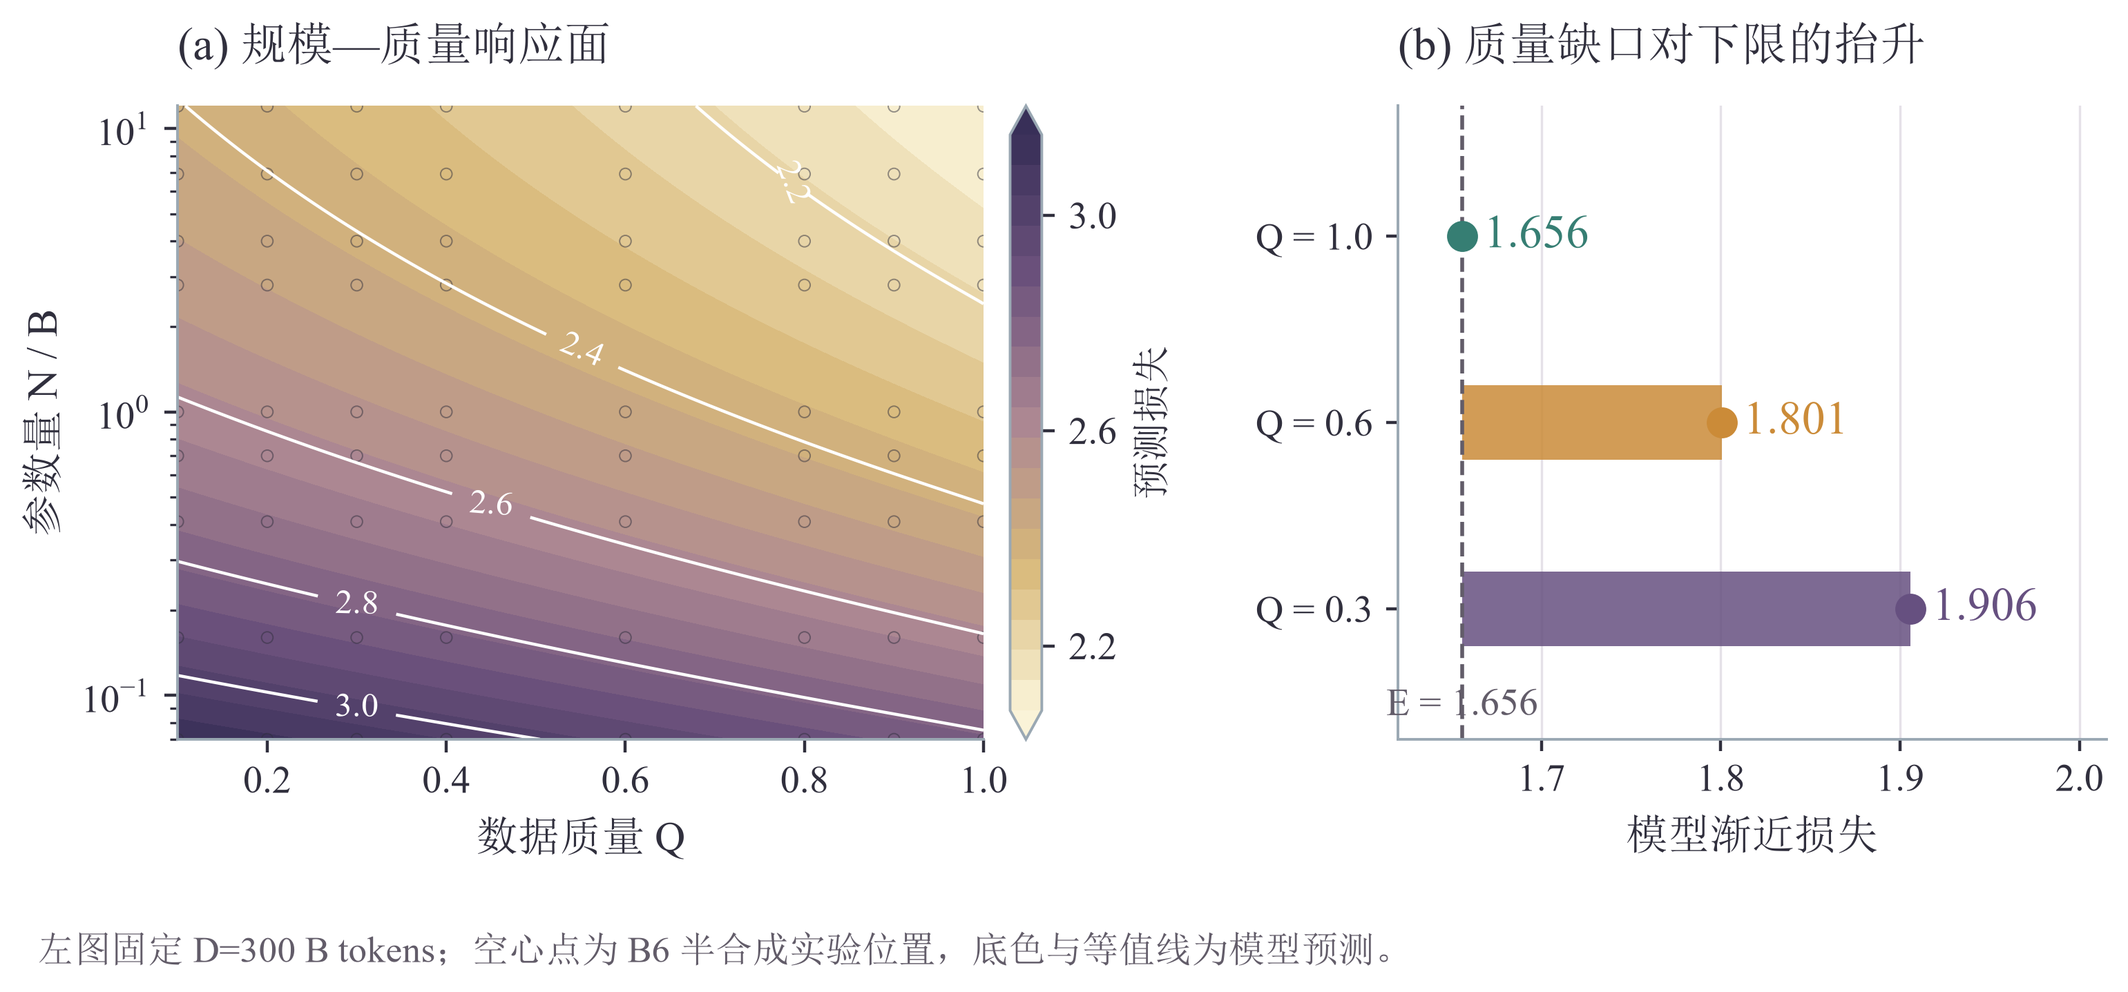
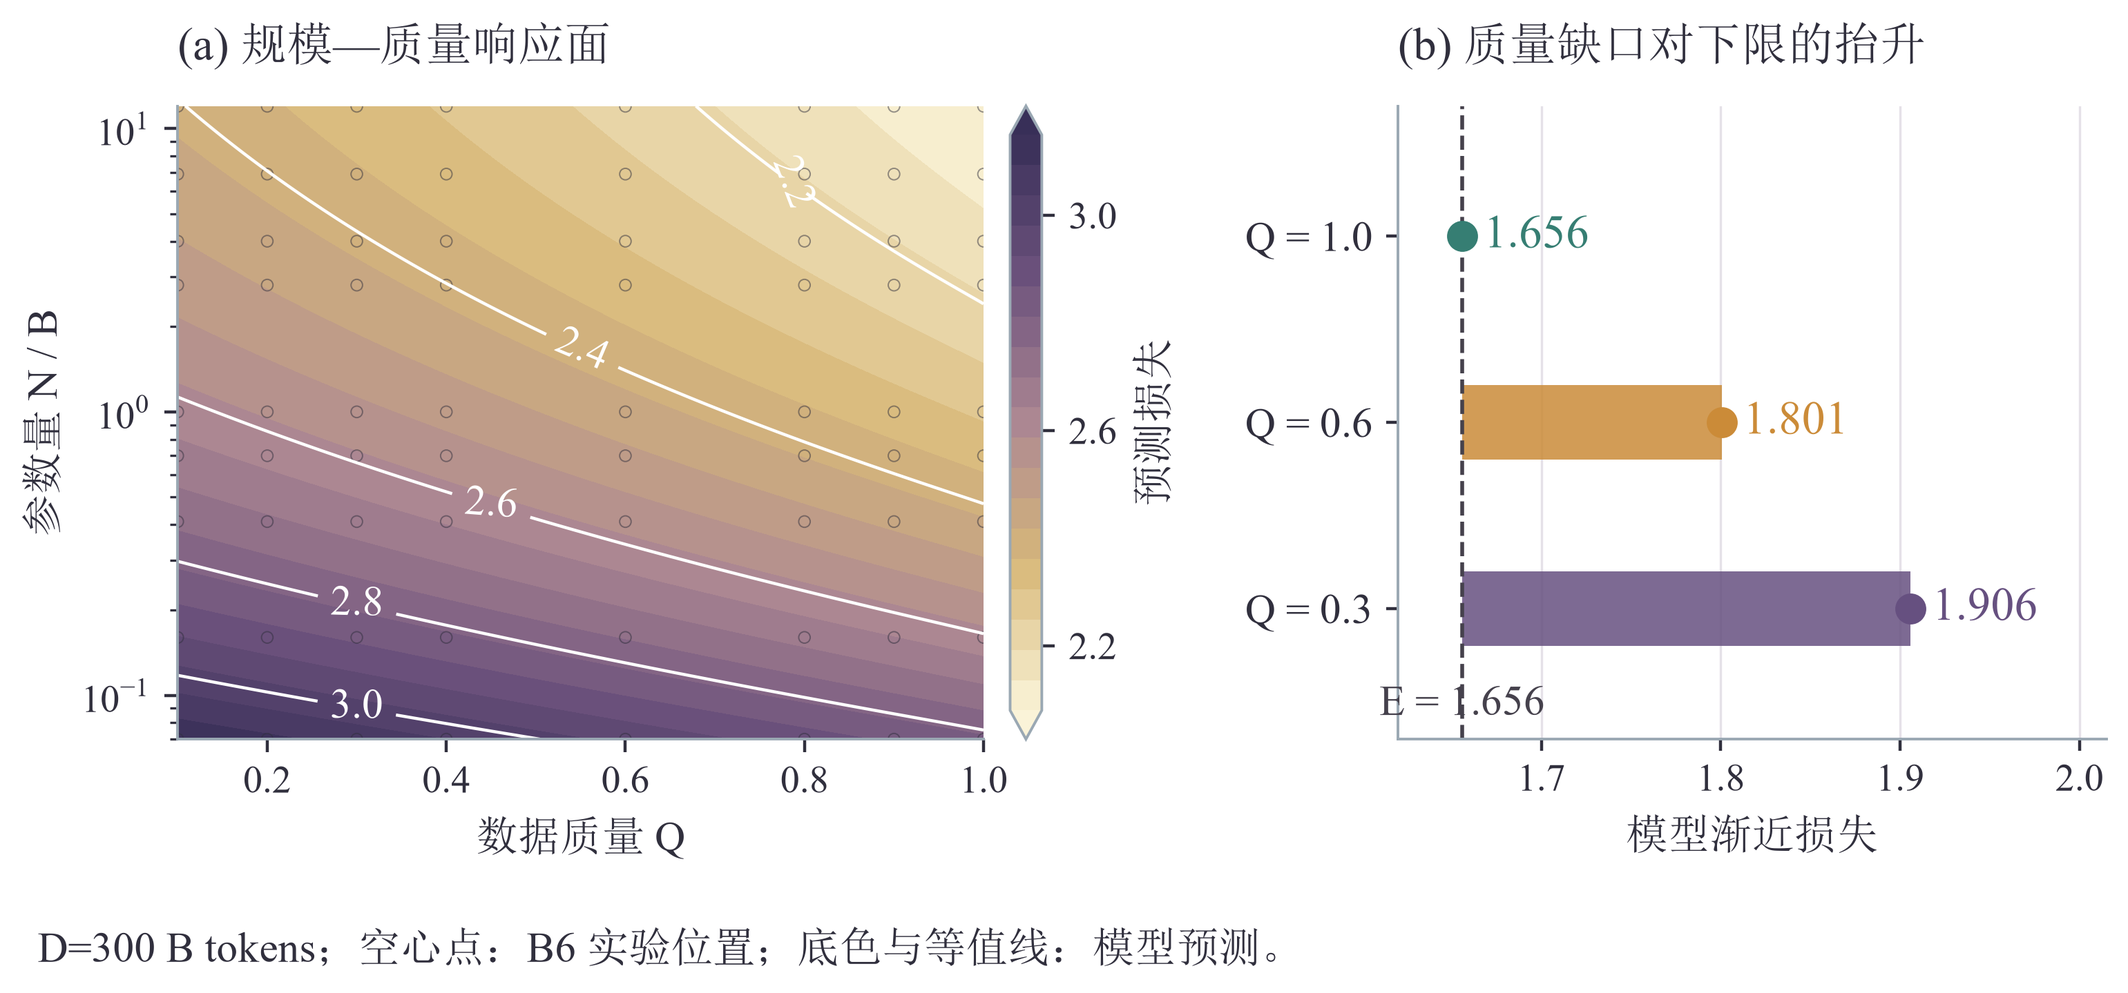
Align problem two conclusions and improve figure readability

diff --git a/求解/问题二/重绘图表.py b/求解/问题二/重绘图表.py
@@ -21,7 +21,7 @@ from scipy.spatial.distance import squareform
 
 HERE = Path(__file__).resolve().parent
 ROOT = HERE.parents[1]
-BLUE, TEAL, RED, GRAY = '#665080', '#367E73', '#CB8B38', '#625C69'
+BLUE, TEAL, RED, GRAY = '#665080', '#367E73', '#CB8B38', '#45414C'
 PALE, INK = '#FAF8F4', '#302F3D'
 CMAP = LinearSegmentedColormap.from_list('effect', ['#FAF3D8', '#D8B979', '#AD8792', '#6D527D', '#382F58'])
 
@@ -67,6 +67,10 @@ def render_all(data_root=None):
     def classic(N,D): return cl.E+cl.A*np.asarray(N)**(-cl.alpha)+cl.B*np.asarray(D)**(-cl.beta)
     def model(N,D,Q): return E+A*np.asarray(N)**(-a)+B*np.asarray(D)**(-b)+C*(1-np.asarray(Q))**g
     def save(fig, name):
+        from matplotlib.text import Text
+        for text in fig.findobj(Text):
+            if text.get_text().strip() and text.get_fontsize() < 11:
+                text.set_fontsize(11)
         fig.savefig(figdir/f'{name}.png', bbox_inches='tight', pad_inches=.08)
         plt.close(fig)
     def axes_style(ax, axis='both'):
@@ -76,7 +80,37 @@ def render_all(data_root=None):
                 bbox=dict(facecolor='white',edgecolor='none',alpha=.88,pad=2.5))
 
     redesign(py,b6,b7,b7n,b8,b8c,read,model,classic,E,A,a,B,b,C,g,save)
+    summarize_large_baseline(read, model)
     print('已更新原图片目录中的八张 PNG；模型参数未更改。')
+
+
+def summarize_large_baseline(read, model):
+    """只读复现正文 B9/B10 对照表，不改变模型或已有结果文件。"""
+    metadata = read('supplementary_large_models.csv')
+    losses = read('supplementary_large_baseline.csv')
+    matched = losses.merge(metadata, left_on='family', right_on='model_name',
+                           how='left', validate='one_to_one',
+                           suffixes=('', '_meta'), indicator=True)
+    assert matched['_merge'].eq('both').all()
+    for field in ['N_params_B', 'D_tokens_B']:
+        assert np.allclose(matched[field], matched[field + '_meta'])
+    excluded = metadata[~metadata.model_name.isin(losses.family)]
+    assert len(metadata) == 132 and len(matched) == 128
+    assert len(excluded) == 4 and excluded.D_tokens_B.eq(0).all()
+    prediction = model(matched.N_params_B, matched.D_tokens_B, 1.)
+    matched['absolute_relative_error'] = 100 * abs(prediction - matched.val_loss) / matched.val_loss
+    rows = []
+    for low, high, label in [(100, 300, '[100,300)'), (300, 1000, '[300,1000)'),
+                             (1000, np.inf, '[1000,10000]')]:
+        group = matched[matched.N_params_B.ge(low) & matched.N_params_B.lt(high)]
+        rows.append({'N / B': label, '记录数': len(group),
+                     'D最小值': group.D_tokens_B.min(), 'D最大值': group.D_tokens_B.max(),
+                     'MAPE_%': group.absolute_relative_error.mean()})
+    assert sum(row['记录数'] for row in rows) == len(matched)
+    assert matched.N_params_B.max() == 10000
+    print('B9/B10 一对一匹配；MAPE 对照 B10 估算值，统一 Q=1：')
+    print(pd.DataFrame(rows).round(2).to_string(index=False))
+    return rows
 
 
 def redesign(py,b6,b7,b7n,b8,b8c,read,model,classic,E,A,a,B,b,C,g,save):
@@ -85,7 +119,7 @@ def redesign(py,b6,b7,b7n,b8,b8c,read,model,classic,E,A,a,B,b,C,g,save):
     from matplotlib.lines import Line2D
     def title(ax,s): ax.set_title(s,loc='left',pad=12,fontsize=12)
     def style(ax): ax.set_axisbelow(True);ax.grid(axis='x',color='#E5E1E8');ax.tick_params(length=3)
-    def foot(fig,s): fig.text(.02,.012,s,fontsize=9.5,color=GRAY,ha='left')
+    def foot(fig,s): fig.text(.02,.012,s,fontsize=11,color=INK,ha='left')
 
     # 0. Evidence lanes keep the conditional p transfer outside the fitted N/D/Q equation.
     fig,ax=plt.subplots(figsize=(7.8,3.5));ax.axis('off');ax.set(xlim=(0,10),ylim=(0,4.1))
@@ -117,8 +151,8 @@ def redesign(py,b6,b7,b7n,b8,b8c,read,model,classic,E,A,a,B,b,C,g,save):
     im=ax.pcolormesh(edges,np.arange(9)-.5,z,cmap=CMAP,shading='flat')
     ax.set(xscale='log',yticks=np.arange(8),yticklabels=[f'{n:.2f}' for n in ns],xlabel='训练数据量 D / B tokens',ylabel='参数量 N / B',ylim=(-.5,7.5))
     ax.set_xticks([.2,1,10,100]);ax.set_xticklabels(['0.2','1','10','100']);title(ax,'(a) 附件记录的损失地图')
-    cb=fig.colorbar(im,cax=ax.inset_axes([0,1.08,1,.045]),orientation='horizontal');cb.ax.tick_params(labelsize=9,length=2)
-    ax.set_title('(a) 附件记录的损失地图',loc='left',pad=43,fontsize=12)
+    cb=fig.colorbar(im,cax=ax.inset_axes([0,1.16,1,.045]),orientation='horizontal');cb.ax.tick_params(labelsize=11,length=2)
+    ax.set_title('(a) 附件记录的损失地图',loc='left',pad=52,fontsize=12)
     residuals=[]
     for n in ns:
         sub=py[py.N_params_B.eq(n)];residuals.append((classic(n,sub.D_tokens_B)-sub.val_loss).to_numpy()*1e4)
@@ -128,9 +162,9 @@ def redesign(py,b6,b7,b7n,b8,b8c,read,model,classic,E,A,a,B,b,C,g,save):
         ar.scatter(err,np.full(len(err),j),s=3,color=BLUE,alpha=.2,edgecolors='none')
         q25,med,q75=np.quantile(err,[.25,.5,.75]);ar.plot([q25,q75],[j,j],color=BLUE,lw=3);ar.scatter(med,j,s=18,color=RED,zorder=4)
     ar.axvline(0,color=GRAY,ls='--',lw=.8);ar.set(yticks=np.arange(8),yticklabels=[f'{n:.2f}' for n in ns],ylim=(-.5,7.5),xlabel='预测残差 / 10⁻⁴')
-    ar.set_title('(b) 各参数规模的拟合残差',loc='left',pad=43,fontsize=12);style(ar)
+    ar.set_title('(b) 各参数规模的拟合残差',loc='left',pad=52,fontsize=12);style(ar)
     fig.subplots_adjust(left=.09,right=.985,bottom=.23,top=.75)
-    foot(fig,'B1：8 个模型 × 147 个检查点；左图颜色表示验证损失。\n右图：点为记录，粗线为四分位区间，金点为中位数；分布宽度表示平滑密度。')
+    foot(fig,'B1：8 个模型 × 147 个检查点；左图颜色表示验证损失。\n右图：记录点、四分位区间及金色中位点；轮廓表示平滑密度。')
     save(fig,'图1_经典标度律拟合')
 
     # 2. Error distributions and MAPE replace the six overlapping prediction clouds.
@@ -149,13 +183,13 @@ def redesign(py,b6,b7,b7n,b8,b8c,read,model,classic,E,A,a,B,b,C,g,save):
         ax.scatter(err,j+rng.uniform(-.1,.1,len(err)),s=5,alpha=.26,color=col,lw=0)
         q25,med,q75=np.quantile(err,[.25,.5,.75]);ax.plot([q25,q75],[j,j],lw=3,color=col);ax.scatter(med,j,s=20,fc='white',ec=col,zorder=4)
         ar.plot([.5,mape],[j,j],color=col,lw=2);ar.scatter(mape,j,s=45,color=col,zorder=3)
-        ar.text(mape*1.17,j,f'{mape:.1f}%',va='center',fontsize=10,color=col);ar.text(1.35,j,f'{r:.3f}',transform=ar.get_yaxis_transform(),va='center',ha='center',fontsize=10)
+        ar.annotate(f'{mape:.1f}%',(mape,j),xytext=(7,0),textcoords='offset points',va='center',fontsize=11,color=col);ar.text(1.35,j,f'{r:.3f}',transform=ar.get_yaxis_transform(),va='center',ha='center',fontsize=11)
     ax.axvline(0,color=INK,lw=.8,ls='--');ax.set(yticks=np.arange(6),yticklabels=labels,ylim=(5.6,-.65),xlabel='有符号相对误差 / %');title(ax,'(a) 误差方向与样本分布');style(ax)
-    ax.set_xscale('symlog',linthresh=10);ax.set_xticks([-50,-10,0,10,50,200,500]);ax.set_xticklabels(['−50','−10','0','10','50','200','500'],fontsize=9)
+    ax.set_xscale('symlog',linthresh=10);ax.set_xticks([-50,-10,0,10,100,500]);ax.set_xticklabels(['−50','−10','0','10','100','500'],fontsize=11)
     ar.set(xscale='log',xlim=(.5,350),xlabel='MAPE / %（对数轴）');ar.tick_params(axis='y',left=False,labelleft=False)
     ar.set_xticks([1,10,100]);ar.set_xticklabels(['1','10','100']);title(ar,'(b) 平均误差');ar.text(1.35,-.6,'r',transform=ar.get_yaxis_transform(),ha='center',va='center',fontstyle='italic');style(ar)
     fig.subplots_adjust(left=.2,right=.89,bottom=.22,top=.88)
-    foot(fig,'左轴为对称对数轴，±10% 内线性；误差 = 100 × (预测值 − 给定值) / 给定值。\nB8 使用 1−Q 方向变换；空心点为中位数，粗线为四分位区间。');save(fig,'图2_广义标度律验证')
+    foot(fig,'相对误差 = 100 × (预测值 − 给定值) / 给定值；左轴在 ±10% 内线性。\nB8 使用 1−Q；空心点：中位数；粗线：四分位区间；轮廓：平滑密度。');save(fig,'图2_广义标度律验证')
 
     # 3. N-Q contour map and asymptotic loss increments; raw design sites are explicit.
     fig=plt.figure(figsize=(7.8,3.7));gs=fig.add_gridspec(1,2,width_ratios=[1.25,1],wspace=.42)
@@ -169,7 +203,7 @@ def redesign(py,b6,b7,b7n,b8,b8c,read,model,classic,E,A,a,B,b,C,g,save):
         floor=E+C*(1-q0)**g;ar.barh(j,floor-E,left=E,height=.4,color=col,alpha=.85);ar.scatter(floor,j,s=50,color=col,zorder=3);ar.text(floor+.012,j,f'{floor:.3f}',va='center',color=col,fontsize=12)
     ar.axvline(E,color=GRAY,ls='--',lw=1);ar.set(yticks=[0,1,2],yticklabels=['Q = 1.0','Q = 0.6','Q = 0.3'],ylim=(2.7,-.7),xlim=(1.62,2.015),xlabel='模型渐近损失')
     ar.text(E,2.57,f'E = {E:.3f}',ha='center',fontsize=10,color=GRAY);title(ar,'(b) 质量缺口对下限的抬升');style(ar)
-    fig.subplots_adjust(left=.085,right=.98,bottom=.23,top=.85);foot(fig,'左图固定 D=300 B tokens；空心点为 B6 半合成实验位置，底色与等值线为模型预测。');save(fig,'图3_质量边际影响')
+    fig.subplots_adjust(left=.085,right=.98,bottom=.23,top=.85);foot(fig,'D=300 B tokens；空心点：B6 实验位置；底色与等值线：模型预测。');save(fig,'图3_质量边际影响')
 
     # 4. Marginal response locations and a dumbbell comparison of saved elasticities.
     fig,axs=plt.subplots(1,3,figsize=(7.8,3.5),gridspec_kw={'width_ratios':[1,1,1.35]})
@@ -177,8 +211,8 @@ def redesign(py,b6,b7,b7n,b8,b8c,read,model,classic,E,A,a,B,b,C,g,save):
     for ax,effect,col,labels,xlabel,heading in [
         (axs[0],a*A*nvals**(-a-1),BLUE,[f'{n:g}' for n in nvals],r'$|\partial L/\partial N|$ / B$^{-1}$','(a) 参数边际效应'),
         (axs[1],C*g*(1-qvals)**(g-1),RED,[f'{q:g}' for q in qvals],r'$|\partial L/\partial Q|$','(b) 质量边际效应')]:
-        ypos=np.arange(5);base=effect.min()*.8 if ax is axs[0] else .34
-        ax.hlines(ypos,base,effect,color=col,lw=2);ax.scatter(effect,ypos,color=col,s=35,zorder=3)
+        ypos=np.arange(5)
+        ax.scatter(effect,ypos,color=col,s=42,zorder=3)
         ax.set(yticks=ypos,yticklabels=labels,ylim=(4.5,-.6),xlabel=xlabel);title(ax,heading);style(ax)
     axs[0].set_xscale('log');axs[0].set_ylabel('参考参数量 N / B')
     axs[1].set(xlim=(.34,.391),ylabel='参考质量 Q',xticks=[.35,.37,.39])
@@ -190,8 +224,8 @@ def redesign(py,b6,b7,b7n,b8,b8c,read,model,classic,E,A,a,B,b,C,g,save):
             ar.annotate(f'{v[i,j]:.3f}',(v[i,j],j),xytext=(0,10 if i==0 else -16),textcoords='offset points',ha='center',fontsize=9,color=col)
     ar.set(yticks=[0,1,2],yticklabels=['参数 N','数据 D','质量 Q'],ylim=(2.55,-.75),xlim=(.01,.112),xlabel='弹性绝对值')
     title(ar,'(c) 两个参考点的敏感度');style(ar);ar.legend(loc='upper center',bbox_to_anchor=(.5,-.2),ncol=1,fontsize=9)
-    fig.subplots_adjust(left=.075,right=.98,bottom=.28,top=.85,wspace=.52)
-    foot(fig,'边际导数分别采用各自量纲；弹性为无量纲指标。参考点均取 Q=0.6，N、D 以 B 为单位。');save(fig,'图4_边际效用对比')
+    fig.subplots_adjust(left=.075,right=.98,bottom=.34,top=.87,wspace=.62)
+    foot(fig,'左、中图：边际导数，各用自身量纲；右图：无量纲弹性。\n仅右图两个参考点均取 Q=0.6；N、D 以 B 为单位。');save(fig,'图4_边际效用对比')
 
     # 5. Three original loss targets, separate panels, explicit scale extrapolation.
     fig,axs=plt.subplots(1,3,figsize=(7.8,3.25),sharex=True);ng=np.geomspace(.07,1e4,1200);base=E+B*300**(-b)
@@ -205,11 +239,11 @@ def redesign(py,b6,b7,b7n,b8,b8c,read,model,classic,E,A,a,B,b,C,g,save):
         if .07<min_n<1e4:
             ax.scatter(min_n,1,s=32,color=col,zorder=3)
             pos=(.74,.83) if target==2.30 else ((.27,.48) if target==2.10 else (.43,.73))
-            ax.annotate(f'Q=1\nN={min_n:.1f} B',(min_n,1),xytext=pos,textcoords='axes fraction',fontsize=10,color=col,ha='center',va='top',arrowprops=dict(arrowstyle='-',lw=.7,color=col))
+            ax.annotate(f'Q=1\nN={min_n:.2f} B' if min_n<10 else f'Q=1\nN={min_n:.1f} B',(min_n,1),xytext=pos,textcoords='axes fraction',fontsize=11,color=col,ha='center',va='top',bbox=dict(facecolor=PALE,edgecolor='none',pad=1.5),arrowprops=dict(arrowstyle='-',lw=.7,color=col))
         if target==1.95:
             ax.set_ylim(.95,1.008);ax.set_yticks([.96,.98,1]);ax.text(.06,.1,'高质量区间放大',transform=ax.transAxes,fontsize=10,color=col)
-    fig.subplots_adjust(left=.08,right=.985,bottom=.24,top=.82,wspace=.38)
-    foot(fig,'D=300 B tokens。实线：N≤12 B；虚线：规模外推。右图单独放大纵轴；阴影区分拟合规模与外推规模。');save(fig,'图5_质量参数替代')
+    fig.subplots_adjust(left=.08,right=.985,bottom=.28,top=.84,wspace=.42)
+    foot(fig,'D=300 B tokens；实线：N≤12 B；虚线：规模外推。\n右图纵轴单独放大；阴影区分拟合规模与外推规模。');save(fig,'图5_质量参数替代')
 
     # 6. All 17 domains via A-derived question-one coefficients, not raw A refitting.
     names={'arxiv':'学术预印本','freelaw':'法律判例','nih_exporter':'科研项目','pubmed_central':'医学全文',
@@ -233,7 +267,7 @@ def redesign(py,b6,b7,b7n,b8,b8c,read,model,classic,E,A,a,B,b,C,g,save):
     ar.axvline(0,color=GRAY,lw=.8);ar.axhline(3.5,color='#E5E1E8',lw=1.5)
     ar.set(yticks=np.arange(8),yticklabels=labels,ylim=(7.7,-.8),xlim=(-1.05,1.05),xlabel='中心化系数的余弦相似度');title(ar,'(b) 最相似与最相反的领域对');style(ar)
     fig.subplots_adjust(left=.04,right=.98,top=.87,bottom=.17)
-    foot(fig,'依据问题一配比系数；聚类距离为 √(2−2s)。绿色：相对效应趋同；金色：相对效应相反。\n右图分别选取 s 最大与最小的 4 对；相似性不直接表示替代效率或互补增益。');save(fig,'图6_领域替代互补')
+    foot(fig,'聚类距离 √(2−2s)；绿色：效应趋同；金色：效应相反。\n右图列示 s 最大与最小的各 4 对；相似性不代表互补增益。');save(fig,'图6_领域替代互补')
 
     # 7. Group correlation distributions rather than point clouds mixing all groups.
     fig,ax=plt.subplots(figsize=(7.8,3.1));rng=np.random.default_rng(19)
@@ -245,8 +279,8 @@ def redesign(py,b6,b7,b7n,b8,b8c,read,model,classic,E,A,a,B,b,C,g,save):
         ax.text(1.13,j,f'{cors.mean():+.3f}',va='center',ha='left',color=col,fontsize=12)
     ax.axvline(0,color=GRAY,ls='--',lw=.9);ax.set(xlim=(-1.08,1.42),ylim=(3.6,-.65),yticks=np.arange(4),yticklabels=labels,xticks=[-1,-.5,0,.5,1],xlabel='固定 (N,D) 组内的 Pearson 相关系数')
     ax.text(1.13,-.6,'组间均值',fontsize=10,ha='left');title(ax,'质量字段与损失：组内方向及组间差异');style(ax)
-    fig.subplots_adjust(left=.21,right=.98,top=.84,bottom=.25)
-    foot(fig,'圆点：一个 (N,D) 组；菱形：组间算术平均。均为半合成数据；B7 含 B6，不构成独立证据。');save(fig,'图7_质量方向对照')
+    fig.subplots_adjust(left=.21,right=.98,top=.84,bottom=.32)
+    foot(fig,'圆点：一个 (N,D) 组；菱形：组间均值。\n均为半合成数据；B7 含 B6，不构成独立证据。');save(fig,'图7_质量方向对照')
 
 if __name__=='__main__':
     parser=argparse.ArgumentParser();parser.add_argument('--data-dir');args=parser.parse_args()

diff --git a/论文/0.摘要.tex b/论文/0.摘要.tex
@@ -12,7 +12,7 @@
 
 \textbf{针对问题一：} 本问是综合评价与回归建模问题，需对 22 个质量指标预处理并建立综合评价模型、定义并消解质量冲突、建立 17 域配比与交叉熵损失的定量关系。首先，逐指标判定方向并统一为“越高越好”（其中广告字段经原文抽查确认为“第 1 类=无广告”的正向指标），对 8 个多维列表型指标用 softmax 期望压缩为标量，再作极差归一化、用熵权法客观赋权得到样本级、语料级与领域级质量评分；其次，以成对标准化得分差定义冲突、以 Kendall 协同系数检验一致性，并给出“多数指标方向裁决”的消解规则；再次，用岭正则线性混合回归刻画 17 域配比到 13 域损失的线性关系，并检验追加质量项的增量解释力；最后在 1M、60M、1B 三套检验集上验证并做跨尺度外推。结果表明，全量 $272{,}505$ 条质量记录（另审计出 19 处字段缺失并按中位数填充）的 Kendall 协同系数为 $0.069$、冲突率 $22.3\%$（低于独立基准 $28.9\%$），说明指标间为正但不强的一致关系；抽样集 A1 与扩展集 A2/A3 的域级质量高度吻合（arxiv $0.703$ 对 $0.701$，github $0.455$ 对 $0.455$），领域质量排序为 arxiv $>$ stackexchange $>$ c4 $>$ commoncrawl $>$ book $\approx$ wikipedia $>$ github；配比—损失模型训练平均 $R^2=0.629$、同尺度检验 $0.619$，60M 与 1B 跨尺度 Pearson 相关达 $0.782$ 与 $0.651$；追加混合质量指数后平均 $R^2$ 仅提升 $9.9\times10^{-5}$，说明配比本身已编码质量信息，故将质量作为独立资源交由后续问题处理。
 
-\textbf{针对问题二：} 本问是标度律建模问题，需拟合经典标度律、将数据质量纳入得到广义标度律、分析边际效用与弹性并推导质量与参数规模的替代条件。首先，用稳健非线性最小二乘在 Pythia 主拟合数据上拟合经典形式并做模型留出验证；其次，在控制 $N$、$D$ 的组内条件下审计质量字段方向；再次，比较四类含质量项的广义标度律形式，以拟合优度与内插/外推表现择优；最后计算弹性、等损失曲线与替代率。结果表明，经典标度律为 $L=1.6898+0.3540N^{-0.3400}+1.2403D^{-0.2799}$，$R^2=0.9999998$；方向审计的组内相关为 $-0.925$，确认 $Q_{\text{score}}$ 是质量指标（$Q=1$ 最优）；最优形式为加性质量缺口 $L=E+AN^{-\alpha}+BD^{-\beta}+C(1-Q)^{\gamma}$，联合拟合 $R^2=0.9896$，参数 $E=1.6558$、$A=0.3808$、$\alpha=0.3266$、$B=1.2515$、$\beta=0.2767$、$C=0.3544$、$\gamma=0.9779$；B3 插值轨迹的 $D$ 幂指数为 $-0.2805$，与拟合值 $-0.2799$ 高度一致；参考点 $N=1$B、$D=100$B、$Q=0.6$ 处质量弹性为 $-0.084$，强于规模弹性 $-0.049$，质量提升 $0.1$ 等价于参数量增加约 $0.28$B（在 $N=12$B 处等价于约 $7.68$B），验证了“以质量换规模”的可行性。
+\textbf{针对问题二：} 基于 Pythia 训练轨迹，采用稳健非线性最小二乘估计经典标度律，并通过模型规模留出检验族内迁移表现；结合半合成质量实验，比较四类质量项后采用加性质量缺口模型 $L=E+AN^{-\alpha}+BD^{-\beta}+C(1-Q)^\gamma$。经典拟合 $R^2=0.9999998$，广义模型联合拟合 $R^2=0.9896$；跨族与文献数据上的 MAPE 分别为 $8.8\%$ 与 $8.0\%$。由模型导数得到，两个参考点 $(N,D,Q)=(1,100,0.6)$、$(12,300,0.6)$ 的局部质量--参数替代率分别为 $2.844$、$76.838$ B/单位质量，并推导有限质量增量的等效条件，区分局部近似与规模外推。领域效应以中心化余弦相似度描述，并在损失尺度可迁移的假设下引入配比情景修正。B9 与 B10 匹配的 128 条大规模记录用于估算一致性对照，相关结论受半合成质量证据与跨来源尺度衔接假设限制。
 
 \textbf{针对问题三：} 建立包含基础训练、质量处理与注意力开销的预算约束模型，在给定配比情景下采用 SLSQP 求解参数量、数据量与质量水平。以幂函数型质量成本、参考配比和 2048 tokens 上下文为基准，三档预算 $10^{19}$、$10^{22}$、$10^{24}$ FLOPs 下的配置分别为 $(0.225\text{B},6.9\text{B},0.551)$、$(6.089\text{B},229.5\text{B},1.000)$、$(44.937\text{B},3418.0\text{B},1.000)$，对应参数量、训练 token 数与质量评分。预算扫描显示基线质量、质量提升与质量饱和三个阶段：首次观察到正质量投入和饱和配置的网格预算分别为 $1.78\times10^{19}$ 与 $7.08\times10^{19}$ FLOPs，后者对应质量份额峰值 $40.7\%$；这些预算是数值识别值而非精确临界点。解析得到注意力与基础训练成本相等的上下文长度 $30{,}000$ tokens。在 $10^{22}$ FLOPs 下，上下文由 2048 增至 131072 tokens 时，参数量由 $6.089$B 降至 $2.705$B，预测损失上升约 $6.0\%$。三类质量成本均在所考察中高预算档给出质量饱和配置，但低预算质量决策明显依赖成本形式；定量结果受评分尺度衔接和标度律外推假设约束。
 
